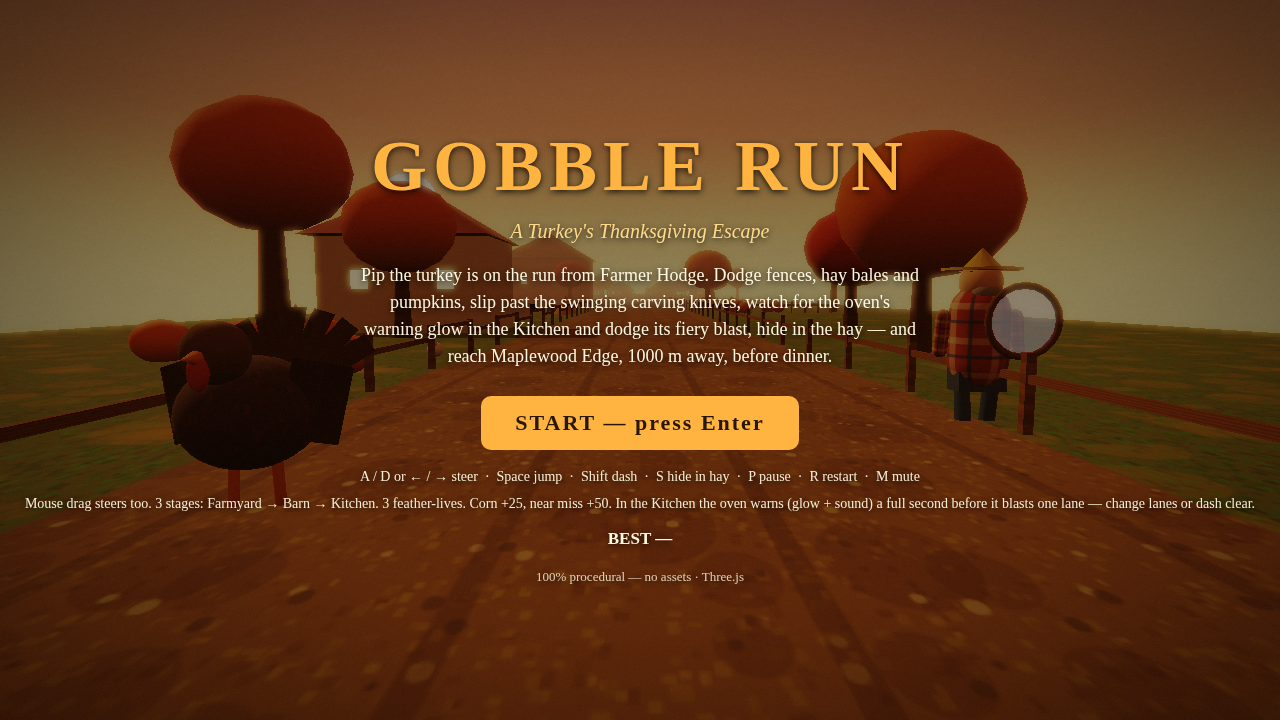
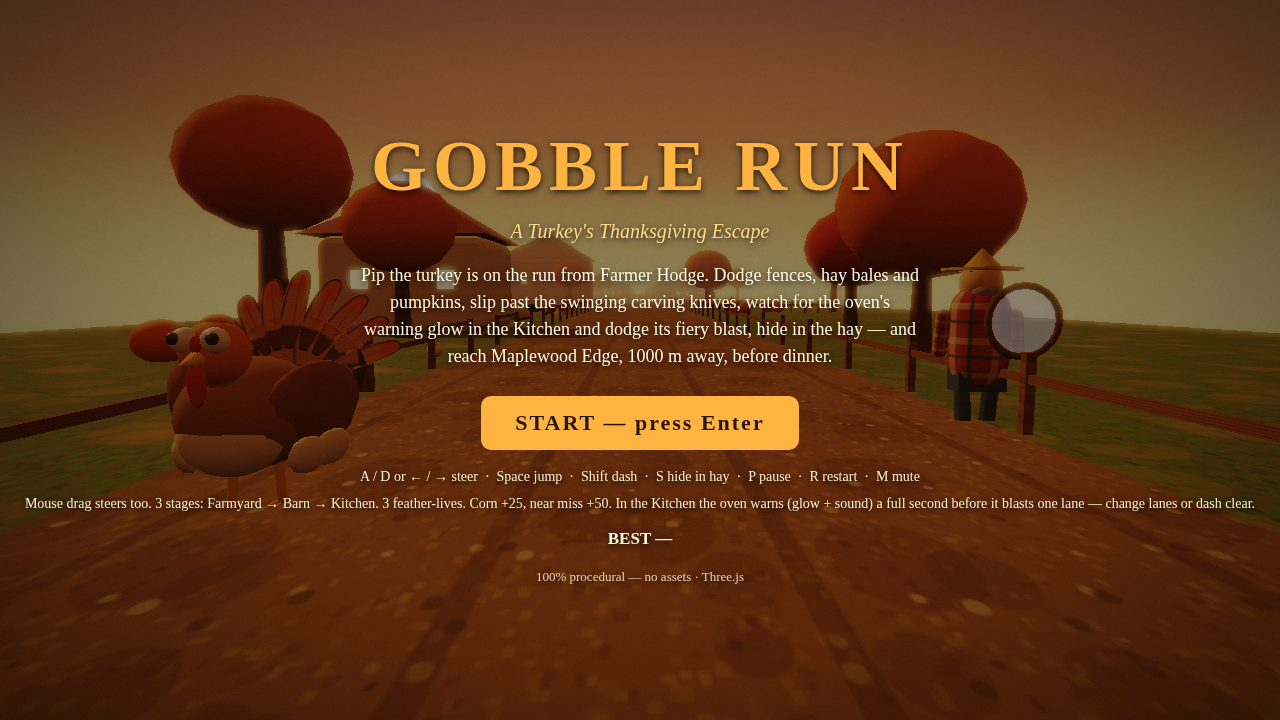
Fix pass (QA C1-C2 + Red Team F1/F2/F3/F5/F6): turkey reads brown, fan banded + solid, fresh screenshots
F1: body/wing materials drop the dark feather map (was map #6b4423 x
tint -> near-black #1f0802); plain C.bodyBrown/C.wingBrown now. Cream
wing tips moved proud of the wing's outer face and below its bottom
edge so they read from front/side.
F2: tail base band brightened #4a2e14 -> #6b3a1e and shrunk 104 -> 70 px
of 256; rump shrunk and lowered so the feather bases show.
F3: solid banded fan backing (same tail gradient, extruded 0.10) behind
the feathers so the fan reads solid from the side; pupils shifted to
the outer-front quadrant so they read from the side.
F5: barn/farmhouse bevel 0.12 -> 0.35; cow body y 0.75 -> 0.55 (belly
0.10 m off the ground, was floating 0.30 m); barrel hoops added
(2 dark metal bands per barrel, +1 draw call, ~4.8k tris).
F6: all 4 screenshots regenerated from this build via ?shot= staging
(2-run is the composer chase view); dossier rebuilt from them.
C3 (static track fence still sharp boxes) skipped: rounding 2x500
instances would add ~75k tris; recorded as a caveat.

Verified: front chest median #681d09 vs old #1d0804 (lit body #c38031);
rear base band median #a9380d vs old #270e06; autopilot escape
unchanged (seed 7: 93.3 s / 17301 / lives 3); scene 101 calls /
73,953 tris (was 99/69,025); frame medians 0.22-0.87 ms, max 9.74 ms;
0 console errors; dossier exit 0, byte-identical over 2 runs.

Changed region(s): [[0.125, 0.3361, 0.3125, 0.6722]]

diff --git a/game/src/turkey.js b/game/src/turkey.js
@@ -11,7 +11,7 @@ import * as THREE from 'three';
 const C = {
   bodyBrown: 0x9c6b38,
   wingBrown: 0x8a5630,
-  darkBrown: 0x4a2e14,
+  darkBrown: 0x6b3a1e,
   outline: 0x3a220e,
   orange: 0xe87e1e,
   tan: 0xd9a066,
@@ -33,13 +33,15 @@ function makeTailFeatherTexture() {
   canvas.width = W;
   canvas.height = H;
   const ctx = canvas.getContext('2d');
-  // Bands (canvas y=0 is the tip).
+  // Bands (canvas y=0 is the tip). Base band is a readable medium brown
+  // (~70 of 256 px), not the near-black it was — the old #4a2e14 over 104 px
+  // rendered black under the sunset grade.
   ctx.fillStyle = '#e87e1e';
   ctx.fillRect(0, 0, W, 78);
   ctx.fillStyle = '#d9a066';
-  ctx.fillRect(0, 78, W, 74);
-  ctx.fillStyle = '#4a2e14';
-  ctx.fillRect(0, 152, W, H - 152);
+  ctx.fillRect(0, 78, W, 108);
+  ctx.fillStyle = '#6b3a1e';
+  ctx.fillRect(0, 186, W, H - 186);
   // Soft blend between bands.
   const blend1 = ctx.createLinearGradient(0, 66, 0, 90);
   blend1.addColorStop(0, 'rgba(232,126,30,0)');
@@ -47,16 +49,16 @@ function makeTailFeatherTexture() {
   blend1.addColorStop(1, 'rgba(217,160,102,0)');
   ctx.fillStyle = blend1;
   ctx.fillRect(0, 66, W, 24);
-  const blend2 = ctx.createLinearGradient(0, 140, 0, 164);
+  const blend2 = ctx.createLinearGradient(0, 174, 0, 198);
   blend2.addColorStop(0, 'rgba(217,160,102,0)');
-  blend2.addColorStop(0.5, 'rgba(74,46,20,0.55)');
-  blend2.addColorStop(1, 'rgba(74,46,20,0)');
+  blend2.addColorStop(0.5, 'rgba(107,58,30,0.55)');
+  blend2.addColorStop(1, 'rgba(107,58,30,0)');
   ctx.fillStyle = blend2;
-  ctx.fillRect(0, 140, W, 24);
+  ctx.fillRect(0, 174, W, 24);
   // Barb strokes: short diagonal dashes, slightly darker than the band.
   ctx.lineWidth = 2;
   for (let y = 10; y < H - 8; y += 9) {
-    const band = y < 78 ? 'rgba(160,70,10,0.5)' : y < 152 ? 'rgba(150,95,40,0.5)' : 'rgba(20,10,4,0.55)';
+    const band = y < 78 ? 'rgba(160,70,10,0.5)' : y < 186 ? 'rgba(150,95,40,0.5)' : 'rgba(60,32,12,0.55)';
     ctx.strokeStyle = band;
     for (let x = 12; x < W - 12; x += 14) {
       ctx.beginPath();
@@ -135,11 +137,14 @@ function buildWing(sign, wingMat, creamMat) {
   covert.scale.set(0.20, 0.55, 0.7);
   covert.position.set(sign * 0.06, -0.12, -0.08);
   wing.add(covert);
-  // Two layered cream tips peeking out below the covert.
+  // Two layered cream tips peeking out below and outside the covert: they
+  // sit proud of the wing's outer face and below its bottom edge, so the
+  // cream reads from the front and the side instead of hiding inside the
+  // wing (the old tips were buried in the wing sphere).
   for (let k = 0; k < 2; k += 1) {
     const tip = new THREE.Mesh(new THREE.SphereGeometry(0.5, 8, 6), creamMat);
-    tip.scale.set(0.14, 0.34, 0.42);
-    tip.position.set(sign * 0.08, -0.30 - k * 0.02, -0.18 + k * 0.30);
+    tip.scale.set(0.17, 0.34, 0.44);
+    tip.position.set(sign * 0.16, -0.37 - k * 0.02, -0.10 + k * 0.26);
     tip.rotation.x = -0.15 * k;
     wing.add(tip);
   }
@@ -166,8 +171,11 @@ function buildLeg(sign, legMat) {
 
 export function buildTurkey(textures) {
   const group = new THREE.Group();
-  const bodyMat = new THREE.MeshStandardMaterial({ map: textures.feather, color: C.bodyBrown, roughness: 0.9 });
-  const wingMat = new THREE.MeshStandardMaterial({ map: textures.feather, color: C.wingBrown, roughness: 0.9 });
+  // Body and wings are flat colours: the old feather map (dark #6b4423
+  // base) multiplied by the brown tints rendered the body near-black
+  // (#1f0802) under the sunset grade. Plain C.bodyBrown / C.wingBrown.
+  const bodyMat = new THREE.MeshStandardMaterial({ color: C.bodyBrown, roughness: 0.9 });
+  const wingMat = new THREE.MeshStandardMaterial({ color: C.wingBrown, roughness: 0.9 });
   const darkBrownMat = new THREE.MeshStandardMaterial({ color: C.darkBrown, roughness: 0.9 });
   const creamMat = new THREE.MeshStandardMaterial({ color: C.cream, roughness: 0.9 });
   const headMat = new THREE.MeshStandardMaterial({ color: C.orange, roughness: 0.7 });
@@ -214,7 +222,9 @@ export function buildTurkey(textures) {
     eye.position.set(sign * 0.115, 0.11, 0.185);
     head.add(eye);
     const pupil = new THREE.Mesh(new THREE.SphereGeometry(0.05, 8, 6), pupilMat);
-    pupil.position.set(sign * 0.10, 0.13, 0.275);
+    // Outer-front quadrant of the eyeball, so a black sliver still reads
+    // from the side instead of hiding behind the eye white.
+    pupil.position.set(sign * 0.15, 0.13, 0.28);
     head.add(pupil);
   }
   const beak = new THREE.Mesh(new THREE.ConeGeometry(0.10, 0.32, 10), beakMat);
@@ -249,10 +259,35 @@ export function buildTurkey(textures) {
     tail.add(feather);
     tailFeathers.push(feather);
   }
+  // Solid banded fan backing behind the feathers: same tail gradient, so
+  // the fan reads as one solid banded mass from the side (no sky gaps
+  // between bare blades) while the rear still shows orange → tan → brown.
+  // Extruded 0.10 deep so it has a real silhouette from the side; its
+  // front face sits just behind the feather bases (z -0.10) and its top
+  // edge stays below the feather tips, which poke out above it.
+  const fanShape = new THREE.Shape();
+  fanShape.moveTo(-0.75, 0);
+  fanShape.absarc(0, 0, 0.75, Math.PI, 0, true);
+  fanShape.lineTo(-0.75, 0);
+  const fanBackGeo = new THREE.ExtrudeGeometry(fanShape, { steps: 1, depth: 0.10, bevelEnabled: false, curveSegments: 16 });
+  fanBackGeo.translate(0, 0, -0.20);
+  {
+    // Remap the cap UVs so the banding tracks height like the feathers
+    // (v=0 brown at the base, v=1 orange at the top edge).
+    const uv = fanBackGeo.attributes.uv;
+    const pos = fanBackGeo.attributes.position;
+    for (let i = 0; i < pos.count; i += 1) {
+      uv.setXY(i, (pos.getX(i) + 0.75) / 1.5, Math.min(1, Math.max(0, (pos.getY(i) - 0.05) / 0.80)));
+    }
+  }
+  const fanBack = new THREE.Mesh(fanBackGeo, featherMat);
+  tail.add(fanBack);
   // Brown covert mound over the feather bases at the rear of the body.
+  // Small and low now: the old ball (y top +0.20) covered the feather
+  // bases from behind.
   const rump = new THREE.Mesh(new THREE.SphereGeometry(0.5, 12, 10), darkBrownMat);
-  rump.scale.set(0.6, 0.5, 0.36);
-  rump.position.set(0, -0.05, -0.05);
+  rump.scale.set(0.5, 0.36, 0.28);
+  rump.position.set(0, -0.15, -0.04);
   tail.add(rump);
   group.add(tail);
 

diff --git a/game/src/scene.js b/game/src/scene.js
@@ -313,7 +313,9 @@ export function buildFarm(scene, textures) {
   cowBodyGeo.rotateZ(Math.PI / 2);
   instanced(cowBodyGeo, cowMat, 4, (d, i) => {
     const [x, z] = cowSpot(i);
-    d.position.set(x, 0.75, z);
+    // Body centre 0.55, not 0.75: capsule radius 0.45 puts the belly
+    // 0.10 m off the ground instead of floating 0.30 m up.
+    d.position.set(x, 0.55, z);
     d.scale.set(1, 1, 1);
     d.rotation.set(0, 0, 0);
   });
@@ -331,7 +333,9 @@ export function buildFarm(scene, textures) {
     const g = new THREE.Group();
     // Walls: beveled rounded box instead of a sharp BoxGeometry — same
     // outer footprint, soft edges. The pyramid roof keeps its shape.
-    const walls = new THREE.Mesh(roundedBoxGeometry(w, h, dpt, 0.3, 0.12), new THREE.MeshStandardMaterial({ color: wallColor, roughness: 0.95 }));
+    // Bevel 0.35 (was 0.12, ~1% of an 8–12 m wall and invisible at
+    // gameplay distance); now ~3–4% and the corners catch the light.
+    const walls = new THREE.Mesh(roundedBoxGeometry(w, h, dpt, 0.3, 0.35), new THREE.MeshStandardMaterial({ color: wallColor, roughness: 0.95 }));
     walls.position.y = h / 2;
     walls.castShadow = true;
     g.add(walls);
@@ -404,6 +408,17 @@ export function buildFarm(scene, textures) {
     d.position.set(side * (6.5 + ((i * 23) % 40) / 10), 0.55, -320 - ((i * 53) % 370));
     d.scale.set(1, 1, 1);
     d.rotation.set(0, 0, 0);
+  });
+  // Barrel hoops: two dark metal bands per barrel at ±0.35 m, where the
+  // lathe radius is 0.56 — same placement as the barrels, one extra draw
+  // call, ~4.8k tris. The barrels read as bound staves, not plain vases.
+  const hoopMat = new THREE.MeshStandardMaterial({ color: 0x3a3a3a, roughness: 0.5, metalness: 0.6 });
+  instanced(new THREE.TorusGeometry(0.57, 0.03, 5, 12), hoopMat, 40, (d, i) => {
+    const bi = Math.floor(i / 2);
+    const side = bi % 2 === 0 ? -1 : 1;
+    d.position.set(side * (6.5 + ((bi * 23) % 40) / 10), 0.55 + (i % 2 === 0 ? -0.35 : 0.35), -320 - ((bi * 53) % 370));
+    d.scale.set(1, 1, 1);
+    d.rotation.set(Math.PI / 2, 0, 0);
   });
   const counterMat = new THREE.MeshStandardMaterial({ color: 0x4a3423, roughness: 0.85 });
   instanced(roundedBoxGeometry(2.4, 1.0, 1.0, 0.12, 0.08), counterMat, 16, (d, i) => {
